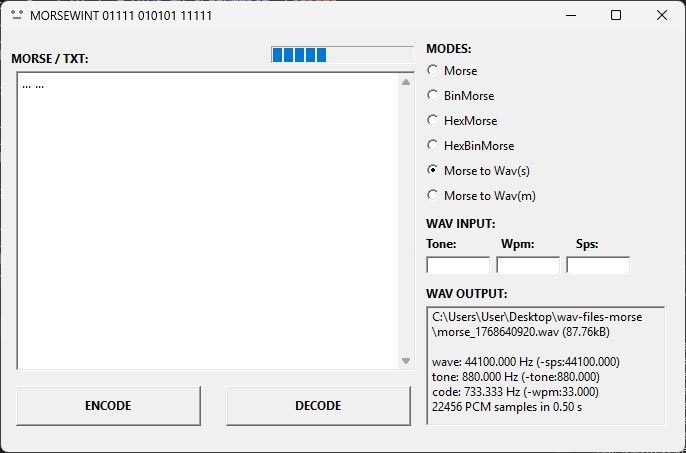
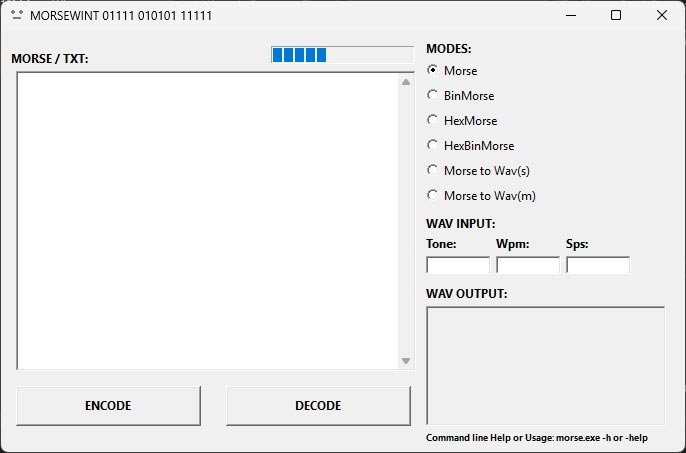
bu

diff --git a/MorseWInt/morsewint.cpp b/MorseWInt/morsewint.cpp
@@ -164,15 +164,16 @@ static void CreateMorseControls(HWND hWnd)
     HFONT hFont = CreateFontW(16, 0, 0, 0, FW_NORMAL, FALSE, FALSE, FALSE, DEFAULT_CHARSET, OUT_DEFAULT_PRECIS, CLIP_DEFAULT_PRECIS, DEFAULT_QUALITY, DEFAULT_PITCH | FF_DONTCARE, L"Segoe UI");
     HFONT hFontMorse = CreateFontW(18, 0, 0, 0, FW_NORMAL, FALSE, FALSE, FALSE, DEFAULT_CHARSET, OUT_DEFAULT_PRECIS, CLIP_DEFAULT_PRECIS, DEFAULT_QUALITY, DEFAULT_PITCH | FF_DONTCARE, L"Segoe UI");
     HFONT hFontBold = CreateFontW(16, 0, 0, 0, FW_BOLD, FALSE, FALSE, FALSE, DEFAULT_CHARSET, OUT_DEFAULT_PRECIS, CLIP_DEFAULT_PRECIS, DEFAULT_QUALITY, DEFAULT_PITCH | FF_DONTCARE, L"Segoe UI");
-	
-    // create labels
+	HFONT hFontSmallBold = CreateFontW(12, 0, 0, 0, FW_BOLD, FALSE, FALSE, FALSE, DEFAULT_CHARSET, OUT_DEFAULT_PRECIS, CLIP_DEFAULT_PRECIS, DEFAULT_QUALITY, DEFAULT_PITCH | FF_DONTCARE, L"Segoe UI");
+    
+     // create labels
     HWND hMorseLabel = CreateWindowExW(0, L"STATIC", L"MORSE / TXT:", 
         WS_CHILD | WS_VISIBLE | SS_LEFT, 10, 20, 120, 18, 
         hWnd, NULL, g_hInst, NULL);
 
     // create labels
     HWND hModesLabel = CreateWindowExW(0, L"STATIC", L"MODES:",
-        WS_CHILD | WS_VISIBLE | SS_LEFT, radiobuttonX, radiobuttonY-20, 120, 18,
+        WS_CHILD | WS_VISIBLE | SS_LEFT, radiobuttonX, radiobuttonY - 20, 120, 18,
         hWnd, NULL, g_hInst, NULL);
 
     HWND hWavInLabel = CreateWindowExW(0, L"STATIC", L"WAV INPUT:",
@@ -180,25 +181,25 @@ static void CreateMorseControls(HWND hWnd)
         hWnd, NULL, g_hInst, NULL);
     
     HWND hToneLabel = CreateWindowExW(0, L"STATIC", L"Tone:",
-        WS_CHILD | WS_VISIBLE | SS_LEFT, radiobuttonX, wavinY+20, 120, 18,
+        WS_CHILD | WS_VISIBLE | SS_LEFT, radiobuttonX, wavinY + 20, 120, 18,
         hWnd, NULL, g_hInst, NULL);
 
     HWND hWpmLabel = CreateWindowExW(0, L"STATIC", L"Wpm:",
-        WS_CHILD | WS_VISIBLE | SS_LEFT, radiobuttonX+75, wavinY+20, 120, 18,
+        WS_CHILD | WS_VISIBLE | SS_LEFT, radiobuttonX + 70, wavinY + 20, 120, 18,
         hWnd, NULL, g_hInst, NULL);
 
     HWND hSpsLabel = CreateWindowExW(0, L"STATIC", L"Sps:",
-        WS_CHILD | WS_VISIBLE | SS_LEFT, radiobuttonX+150, wavinY+20, 120, 18,
+        WS_CHILD | WS_VISIBLE | SS_LEFT, radiobuttonX + 140, wavinY + 20, 120, 18,
         hWnd, NULL, g_hInst, NULL);
 
     HWND hWavOutLabel = CreateWindowExW(0, L"STATIC", L"WAV OUTPUT:",
         WS_CHILD | WS_VISIBLE | SS_LEFT, radiobuttonX, 255, 120, 18,
         hWnd, NULL, g_hInst, NULL);
 
-//	HWND hHelpLabel = CreateWindowExW(0, L"STATIC", L"command line help or usage:\r\nmorse.exe -h or -help", 
-//        WS_CHILD | WS_VISIBLE | SS_LEFT, radiobuttonX, 365, 250, 40,
-//		hWnd, (HMENU)CID_HELP, g_hInst, NULL);
-	// TODO: add input edits tone, sps, wpm 
+	HWND hHelpLabel = CreateWindowExW(0, L"STATIC", L"Command line Help or Usage: morse.exe -h or -help", 
+        WS_CHILD | WS_VISIBLE | SS_LEFT, radiobuttonX, 400, 450, 12,
+ 	    hWnd, (HMENU)CID_HELP, g_hInst, NULL);
+
     // create edit box
     hEdit = CreateWindowExW(
         WS_EX_CLIENTEDGE,
@@ -219,19 +220,19 @@ static void CreateMorseControls(HWND hWnd)
     // create Tone edit box
     hToneOut = CreateWindowExW(WS_EX_CLIENTEDGE, L"EDIT",
         NULL, WS_CHILD | WS_VISIBLE | WS_TABSTOP | ES_LEFT,
-        radiobuttonX, wavinY+40, 65, 18,
+        radiobuttonX, wavinY + 40, 65, 18,
         hWnd, (HMENU)CID_TONE, g_hInst, NULL);
 
     // create Wpm edit box
     hWpmOut = CreateWindowExW(WS_EX_CLIENTEDGE, L"EDIT",
         NULL, WS_CHILD | WS_VISIBLE | WS_TABSTOP | ES_LEFT,
-        radiobuttonX+70, wavinY+40, 65, 18,
+        radiobuttonX + 70, wavinY + 40, 65, 18,
         hWnd, (HMENU)CID_WPM, g_hInst, NULL);
 
     // create Sps edit box
     hSpsOut = CreateWindowExW(WS_EX_CLIENTEDGE, L"EDIT",
         NULL, WS_CHILD | WS_VISIBLE | WS_TABSTOP | ES_LEFT,
-        radiobuttonX+140, wavinY+40, 65, 18,
+        radiobuttonX + 140, wavinY + 40, 65, 18,
         hWnd, (HMENU)CID_SPS, g_hInst, NULL);
 
 	// create radio buttons
@@ -314,8 +315,8 @@ static void CreateMorseControls(HWND hWnd)
     SendMessageW(hToneLabel, WM_SETFONT, (WPARAM)hFontBold, TRUE);
     SendMessageW(hWpmLabel, WM_SETFONT, (WPARAM)hFontBold, TRUE);
     SendMessageW(hSpsLabel, WM_SETFONT, (WPARAM)hFontBold, TRUE);
+    SendMessageW(hHelpLabel, WM_SETFONT, (WPARAM)hFontSmallBold, TRUE);
 
-    //SendMessageW(hHelpLabel, WM_SETFONT, (WPARAM)hFontBold, TRUE);
     // edit box
     SendMessageW(hEdit, WM_SETFONT, (WPARAM)hFontMorse, TRUE);
     SendMessageW(hWavOut, WM_SETFONT, (WPARAM)hFont, TRUE);
